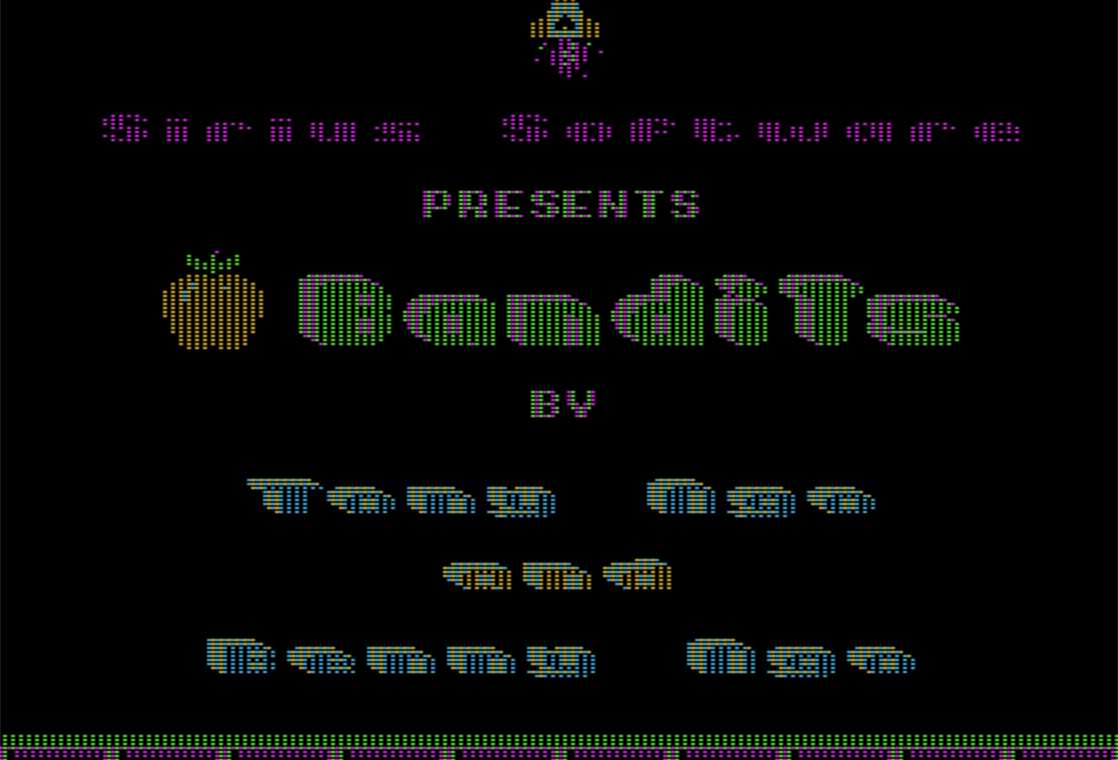
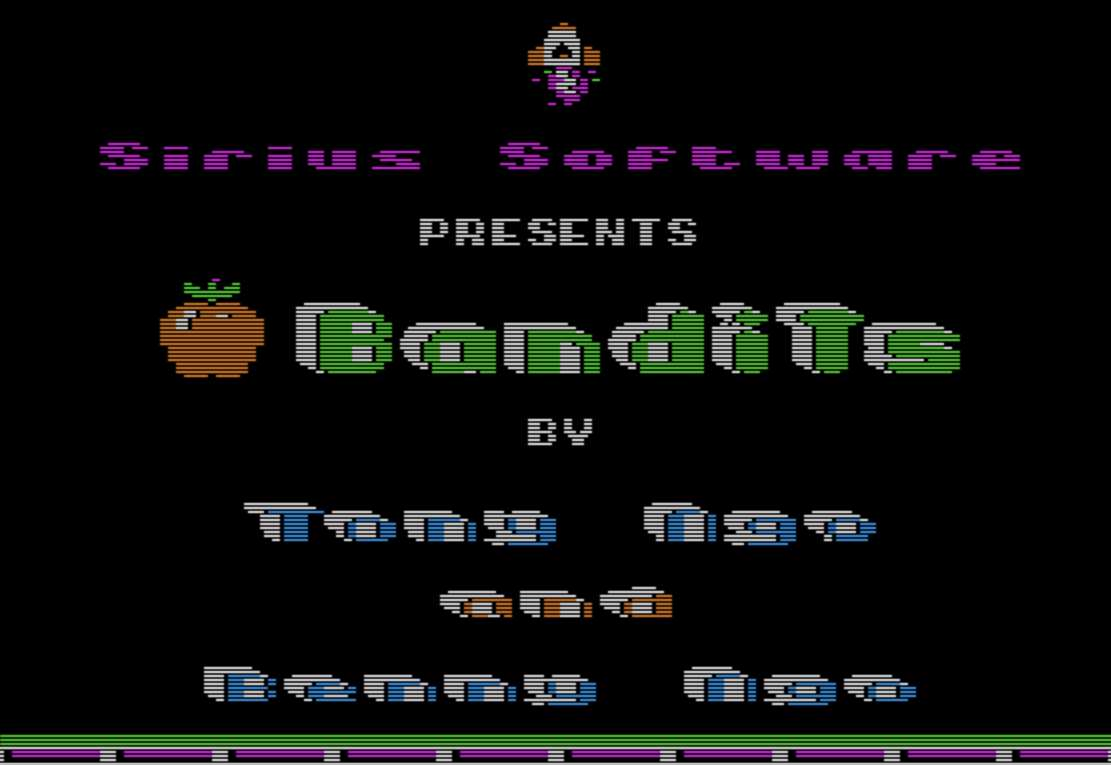
better colors on pygame hires, fixed screenshots

diff --git a/src/papple2/core/apple.py b/src/papple2/core/apple.py
@@ -262,66 +262,119 @@ class Display:
                 del pixels
 
         def update_hires() -> None:
+            # Map the linear address to Apple II's interleaved screen memory coordinates
             base = address - start_hires
             row8, b = divmod(base, 0x400)
             hi, lo = divmod(b, 0x80)
             row_group, column = divmod(lo, 0x28)
             row = 8 * (hi + 8 * row_group) + row8
 
+            # Skip drawing if we are in mixed mode and in the text area at the bottom
             if self.mix and row >= 160:
                 return
 
-            if row < 192 and column < 40:
+            # Sanity check to avoid drawing out of bounds
+            if row >= 192 or column >= 40:
+                return
 
-                pixels = pygame.PixelArray(self.screen)
-                msb = value // 0x80
+            # Lock the pygame surface once to allow fast pixel manipulation
+            pixels = pygame.PixelArray(self.screen)
 
-                for b in range(7):
-                    c = value & (1 << b)
-                    xx = (column * 7 + b)
-                    x = 2 * xx
-                    y = 2 * row
+            def render_byte(render_addr, col):
+                # Fetch the byte. Apple II hi-res uses the lowest 7 bits for pixels.
+                # Bit 7 (MSB) shifts the color palette (Orange/Blue vs Green/Violet).
+                val = self.apple2.memory._mem[render_addr]
+                msb = val // 0x80
+                bits = [(val >> i) & 1 for i in range(7)]
 
-                    if SOLID_PIXELS:
-                        color = (0, 0, 0)
-                        if c:
-                            if msb:
-                                color = (255, 192, 0) if xx % 2 else (0, 192, 255)
-                            else:
-                                color = (0, 255, 0) if xx % 2 else (255, 0, 255)
+                # To simulate NTSC artifacting (where colors smear horizontally),
+                # we need to know the state of the pixels immediately to the left.
+                # Since pixels cross byte boundaries, we peek at the previous byte.
+                prev_bit = 0
+                prev_prev_bit = 0
+                if col > 0:
+                    prev_val = self.apple2.memory._mem[render_addr - 1]
+                    prev_bit = (prev_val >> 6) & 1
+                    prev_prev_bit = (prev_val >> 5) & 1
 
-                        pixels[x][y] = color
-                        pixels[x + 1][y] = color
-                        pixels[x][y + 1] = color
-                        pixels[x + 1][y + 1] = color
+                # We also need to know if a pixel is immediately followed by another 'on' pixel.
+                next_bit = 0
+                if col < 39:
+                    next_bit = self.apple2.memory._mem[render_addr + 1] & 1
+
+                # Loop through the 7 printable bits in the byte
+                for i in range(7):
+                    xx = col * 7 + i  # Absolute horizontal pixel index (0 to 279)
+                    x = 2 * xx  # Scaled x coordinate for the 2x2 display
+                    y = 2 * row  # Scaled y coordinate
+
+                    c = bits[i]
+                    # Determine immediate neighbors, crossing byte boundaries if necessary
+                    left_c = bits[i - 1] if i > 0 else prev_bit
+                    right_c = bits[i + 1] if i < 6 else next_bit
+
+                    # Determine the pixel two spots to the left (needed to detect lone pixels vs white blocks)
+                    if i > 1:
+                        left_left_c = bits[i - 2]
+                    elif i == 1:
+                        left_left_c = prev_bit
                     else:
-                        if msb:
-                            if xx % 2:
-                                pixels[x][y] = (0, 0, 0)
-                                # orange
-                                pixels[x][y] = (255, 192, 0) if c else (0, 0, 0)
-                                pixels[x + 1][y] = (255, 192, 0) if c else (0, 0, 0)
-                            else:
-                                # blue
-                                pixels[x][y] = (0, 192, 255) if c else (0, 0, 0)
-                                pixels[x + 1][y] = (0, 0, 0)
-                                pixels[x + 1][y] = (0, 192, 255) if c else (0, 0, 0)
+                        left_left_c = prev_prev_bit
+
+                    color = (0, 0, 0)
+
+                    if c:
+                        # In NTSC artifacting, any two adjacent '1' bits bleed together to form solid white.
+                        if left_c or right_c:
+                            color = (255, 255, 255)
                         else:
-                            if xx % 2:
-                                pixels[x][y] = (0, 0, 0)
-                                # green
-                                pixels[x][y] = (0, 255, 0) if c else (0, 0, 0)
-                                pixels[x + 1][y] = (0, 255, 0) if c else (0, 0, 0)
+                            # A lone '1' bit gets a color depending on its x-coordinate (even or odd)
+                            # and the MSB palette shift of its parent byte.
+                            if msb:
+                                # First line for `color =` are old colors, the new ones look nicer but might not be legit.
+                                #color = (255, 192, 0) if xx % 2 else (0, 192, 255)
+                                color = (255, 128, 0) if xx % 2 else (0, 165, 255)
                             else:
-                                # violet
-                                pixels[x][y] = (255, 0, 255) if c else (0, 0, 0)
-                                pixels[x + 1][y] = (0, 0, 0)
-                                pixels[x + 1][y] = (255, 0, 255) if c else (0, 0, 0)
+                                #color = (0, 255, 0) if xx % 2 else (255, 0, 255)
+                                color = (0, 230, 0) if xx % 2 else (255, 0, 255)
+                    else:
+                        # If the current bit is '0', it is usually black.
+                        # However, NTSC signals take time to drop. If the pixel to the left was a lone colored pixel,
+                        # its color smears into this empty space.
+                        # We specifically check `not left_left_c` to ensure we don't smear color out of a solid white block.
+                        if left_c and not left_left_c:
+                            left_msb = msb
+                            # If we are at bit 0, the smeared color comes from the MSB of the previous byte
+                            if i == 0 and col > 0:
+                                left_msb = self.apple2.memory._mem[render_addr - 1] // 0x80
 
-                        pixels[x][y + 1] = (0, 0, 0)
-                        pixels[x + 1][y + 1] = (0, 0, 0)
+                            # Apply the same color logic based on the left pixel's coordinate
+                            if left_msb:
+                                #color = (255, 192, 0) if (xx - 1) % 2 else (0, 192, 255)
+                                color = (255, 128, 0) if (xx - 1) % 2 else (0, 165, 255)
+                            else:
+                                #color = (0, 255, 0) if (xx - 1) % 2 else (255, 0, 255)
+                                color = (0, 230, 0) if (xx - 1) % 2 else (255, 0, 255)
 
-                del pixels
+                    # Draw the top row of the 2x2 scaled block with our resolved color
+                    pixels[x][y] = color
+                    pixels[x + 1][y] = color
+
+                    # Force the bottom row of the 2x2 block to black.
+                    # This creates the distinctive horizontal CRT scanline effect.
+                    pixels[x][y + 1] = (0, 0, 0)
+                    pixels[x + 1][y + 1] = (0, 0, 0)
+
+            # Because a single byte write can change how its neighbors are rendered
+            # (due to the left/right smear artifacting crossing byte boundaries),
+            # we must always render the target byte AND its immediate left/right neighbors.
+            render_byte(address, column)
+            if column > 0:
+                render_byte(address - 1, column - 1)
+            if column < 39:
+                render_byte(address + 1, column + 1)
+
+            del pixels  # Release the surface lock so pygame can update the screen
 
         if self.page == 1:
             start_text = 0x400
